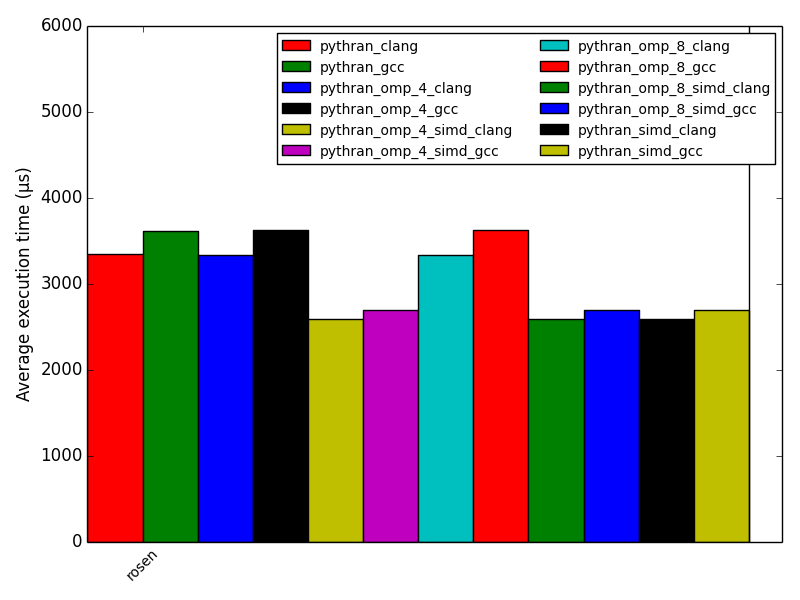
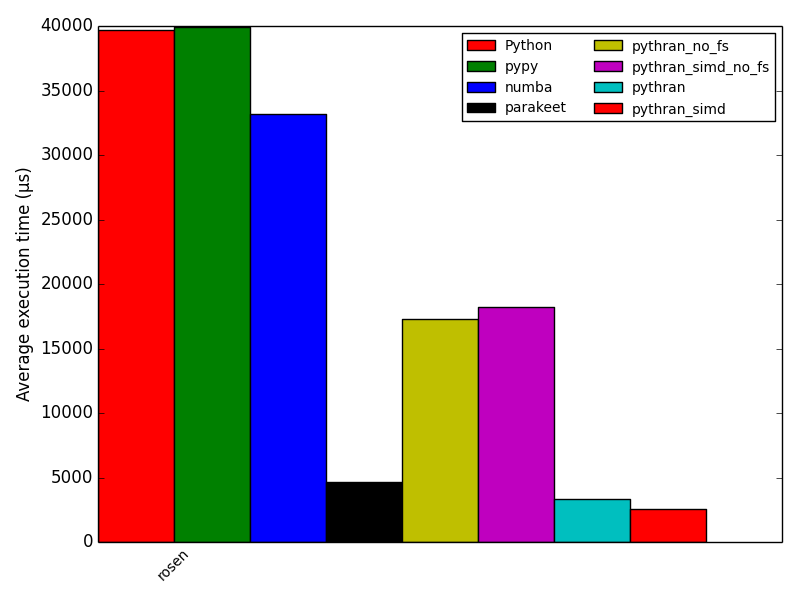
rework rosen measure and description

diff --git a/doc/papers/cgo2014/paper.tex b/doc/papers/cgo2014/paper.tex
@@ -829,12 +829,13 @@ license~\footnote{\url{http://pythonhosted.org/pythran/}}.
 As introduced in \S~\ref{sec:stackoverflow}, we use the numpy-benchmark test 
 suite to evaluate the optimizations described in\S~\ref{sec:pythran}. 
 Pythran is used (commit: 488b7ba) with and without SIMD optimization. 
-The results are compared with Pypy \todo{add}(???), Parakeet (commit: 4e55810), 
+The results are compared with Pypy (commit: 632c832bd32f), Parakeet (commit: 4e55810), 
 Numba (commit: b8a79c5) and Python 2.7.
 
-Benchmarking is done on two architectures with different backend compilers. The
-\texttt{timeit} module is used to perform the measurments, taking the average
-execution time over several runs.
+numpy-benchmarks run 11 times benchmarks with an execution time around 1 seconde.
+THe best time, average time and standard deviation is return from these 11 runs.
+
+Benchmarking is done on two architectures with different backend compilers.
 
 The first one holds 8 AMD Magny Cours processors for a
 total of 48 cores. Each core has access to 64\,KB of L1 cache,
@@ -842,15 +843,10 @@ total of 48 cores. Each core has access to 64\,KB of L1 cache,
 is shared between the 6 cores of a processor. This configuration
 provides a total of 256\,GB (32\,GB per NUMA node) of main memory. It supports
 up to SSE4. We refer to this configuration as \textbf{AMD48}.
-On AMD48, the backend compilers are GCC (Debian 4.7.2-5) and the clang-omp
+On AMD48, the backend compilers is the clang-omp
 version from intel~\footnote{\url{http://clang-omp.github.io/}} to be able to
 benefits from OpenMP improvements. This Clang version is based on Clang 3.4
 release (LLVM:233b1e3f034, clang-omp:6f358bcd87).
-
-\todo{je me demande si on devrait pas utiliser juste cette archi. 
-Qu'est ce que l'autre apporte ? On sous utilise complètement les 48 coeurs...}
-\todo{Mehdi: agree, sauf si on peut avoir UN exemple avec 48 threads qui scale 
-"correctement"}
 
 The second one holds one Intel(R) Xeon(R) CPU E5-2650 0 @ 2.00GHz for a total of
 8 cores (multithreading is not used). Each node can access to 64\,KB of L1
@@ -858,20 +854,21 @@ cache, 256\,KB of L2 cache. Both L1 and L2 caches are private, while L3 cache
 is shared between the 8 cores. This configuration provides a total of 64\,GB of 
 main memory. It supports up to AVX. We refer to this configuration as
 \textbf{Intel8}.
-On Intel8, backend compilers is GCC 4.9 (20140528).
+On Intel8, backend compilers is GCC 4.9 (20140528) with libgomp.
 
 
 \subsection{Performance of the Rosenbrock Function}
 
 % For performance comparison between different Pythran version
 To compare the different optimization schemes, we run the numpy-benchmarks test
-suite multiple times on the \textit{rosen} benchmark.
+suite multiple times on the \textit{rosen} benchmark. The algorithm is the one
+on Listing~\ref{lst:rosen} and input is a raw array of 1,000,000 of double elements.
 Figures~\ref{fig:rosenamd48} and \ref{fig:rosenintel8} illustrate the results.
-The difference between the two architectures can be explain by AVX support on
+The speedup difference between the two architectures can be explain by AVX support on
 the Intel8 architecture while AMD48 supports up to SSE4 only.
-% Haaaaa, I don't understand why OMP is not use...
-\todo{I have to redo mesures without forward substitution to show difference.}
-% SG: may be the number of iteration is not enough? what array size did you use? (it should be specified in the text secion, BTW
+We can also notice importance of forward substitution on this benchmarks as
+we avoid extra loop, 2 temporary array assignment and avoid some load/store for
+SIMD instructions.
 
 \begin{figure}[t]
 \centering
@@ -891,12 +888,17 @@ the Intel8 architecture while AMD48 supports up to SSE4 only.
 \subsection{Comparison with others Python compiler}
 
 Figure~\ref{fig:arc_distance} is a typical example where we can make intensive
-use of the techniques described in this paper. As we can see, both vectorization
+use of the techniques described in this paper. It measures performances on the
+arc\_distance benchmark. It is a kernel with intensive points to points computation
+and trigonometrics use. As we can see, both vectorization
 and parallelization have an impact on execution time. We can notice that SIMD
 contribution is not as good on AMD48 as it is on Intel8, because it does not
-support AVX.
+support AVX. This program also benefits from OpenMP. Input is 10000 elements 
+double raw array.
+
 %FIXME: mehdi propose de n'utiliser qu'un backend pour centrer le propos sur Pythran/Numpy.
 % ça allègera aussi les graphes...
+% On change juste le jeu de donnée plutot que de supprimer une archi
 
 \begin{figure}[t]
 \centering
